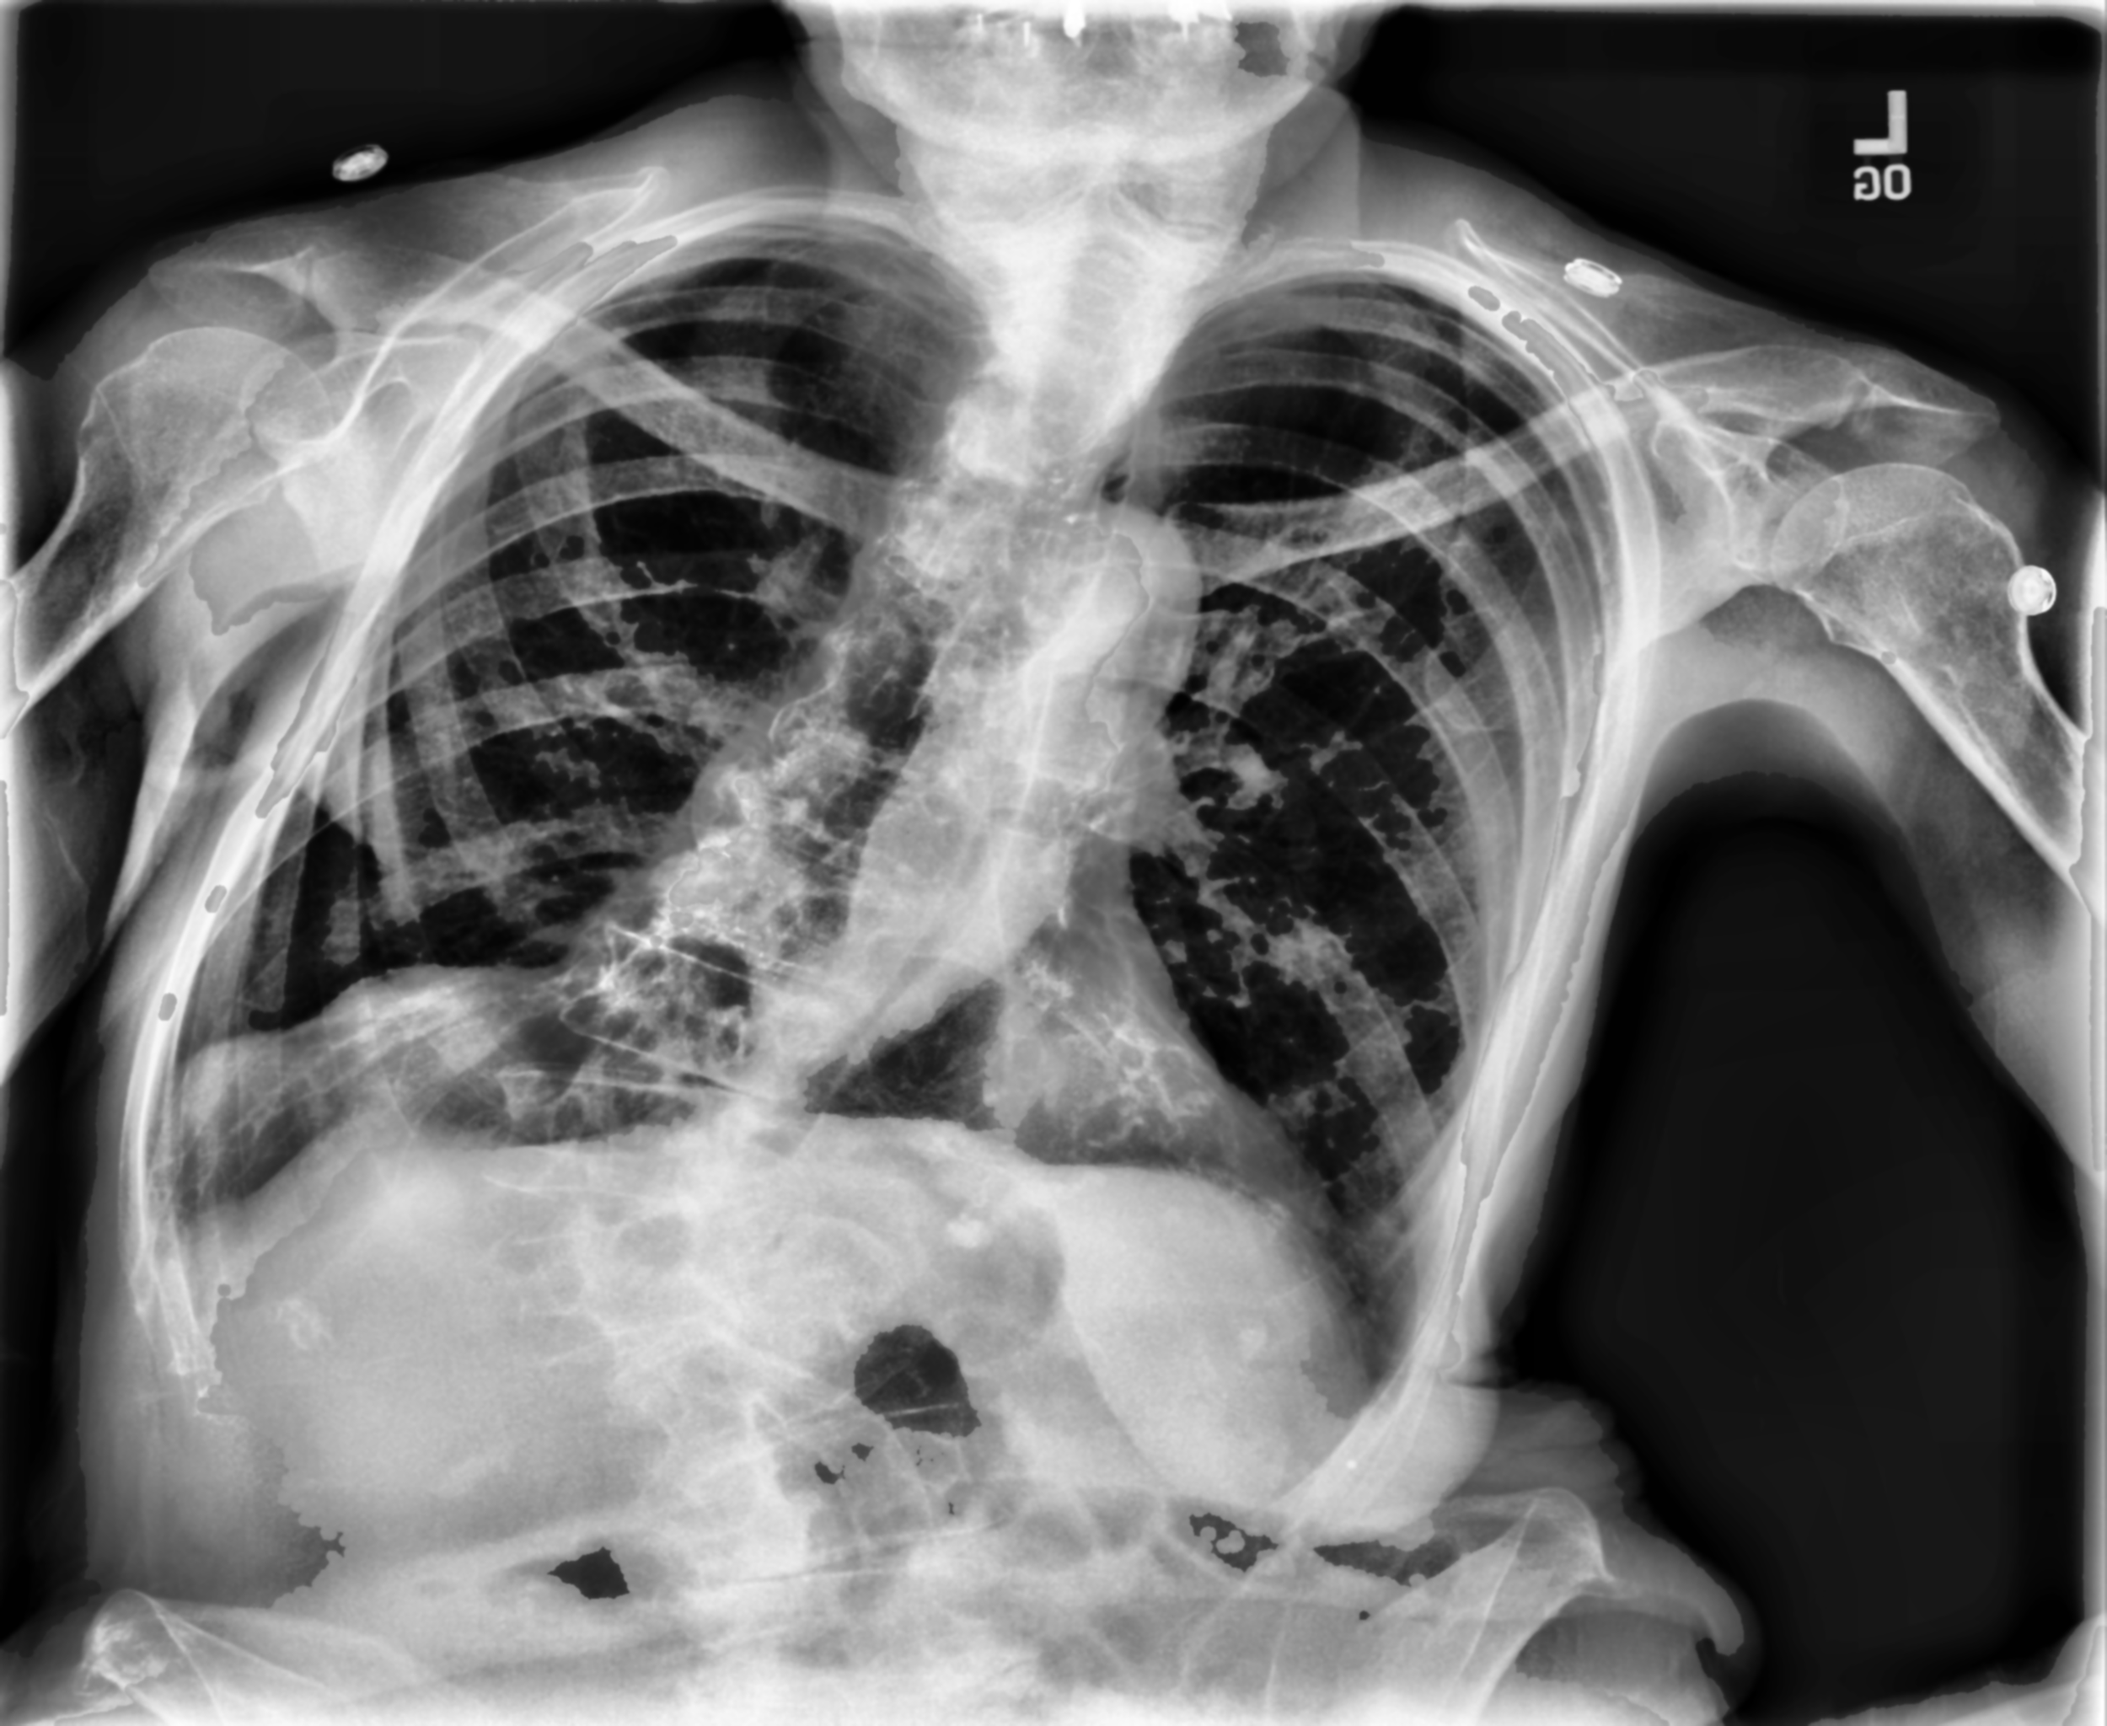
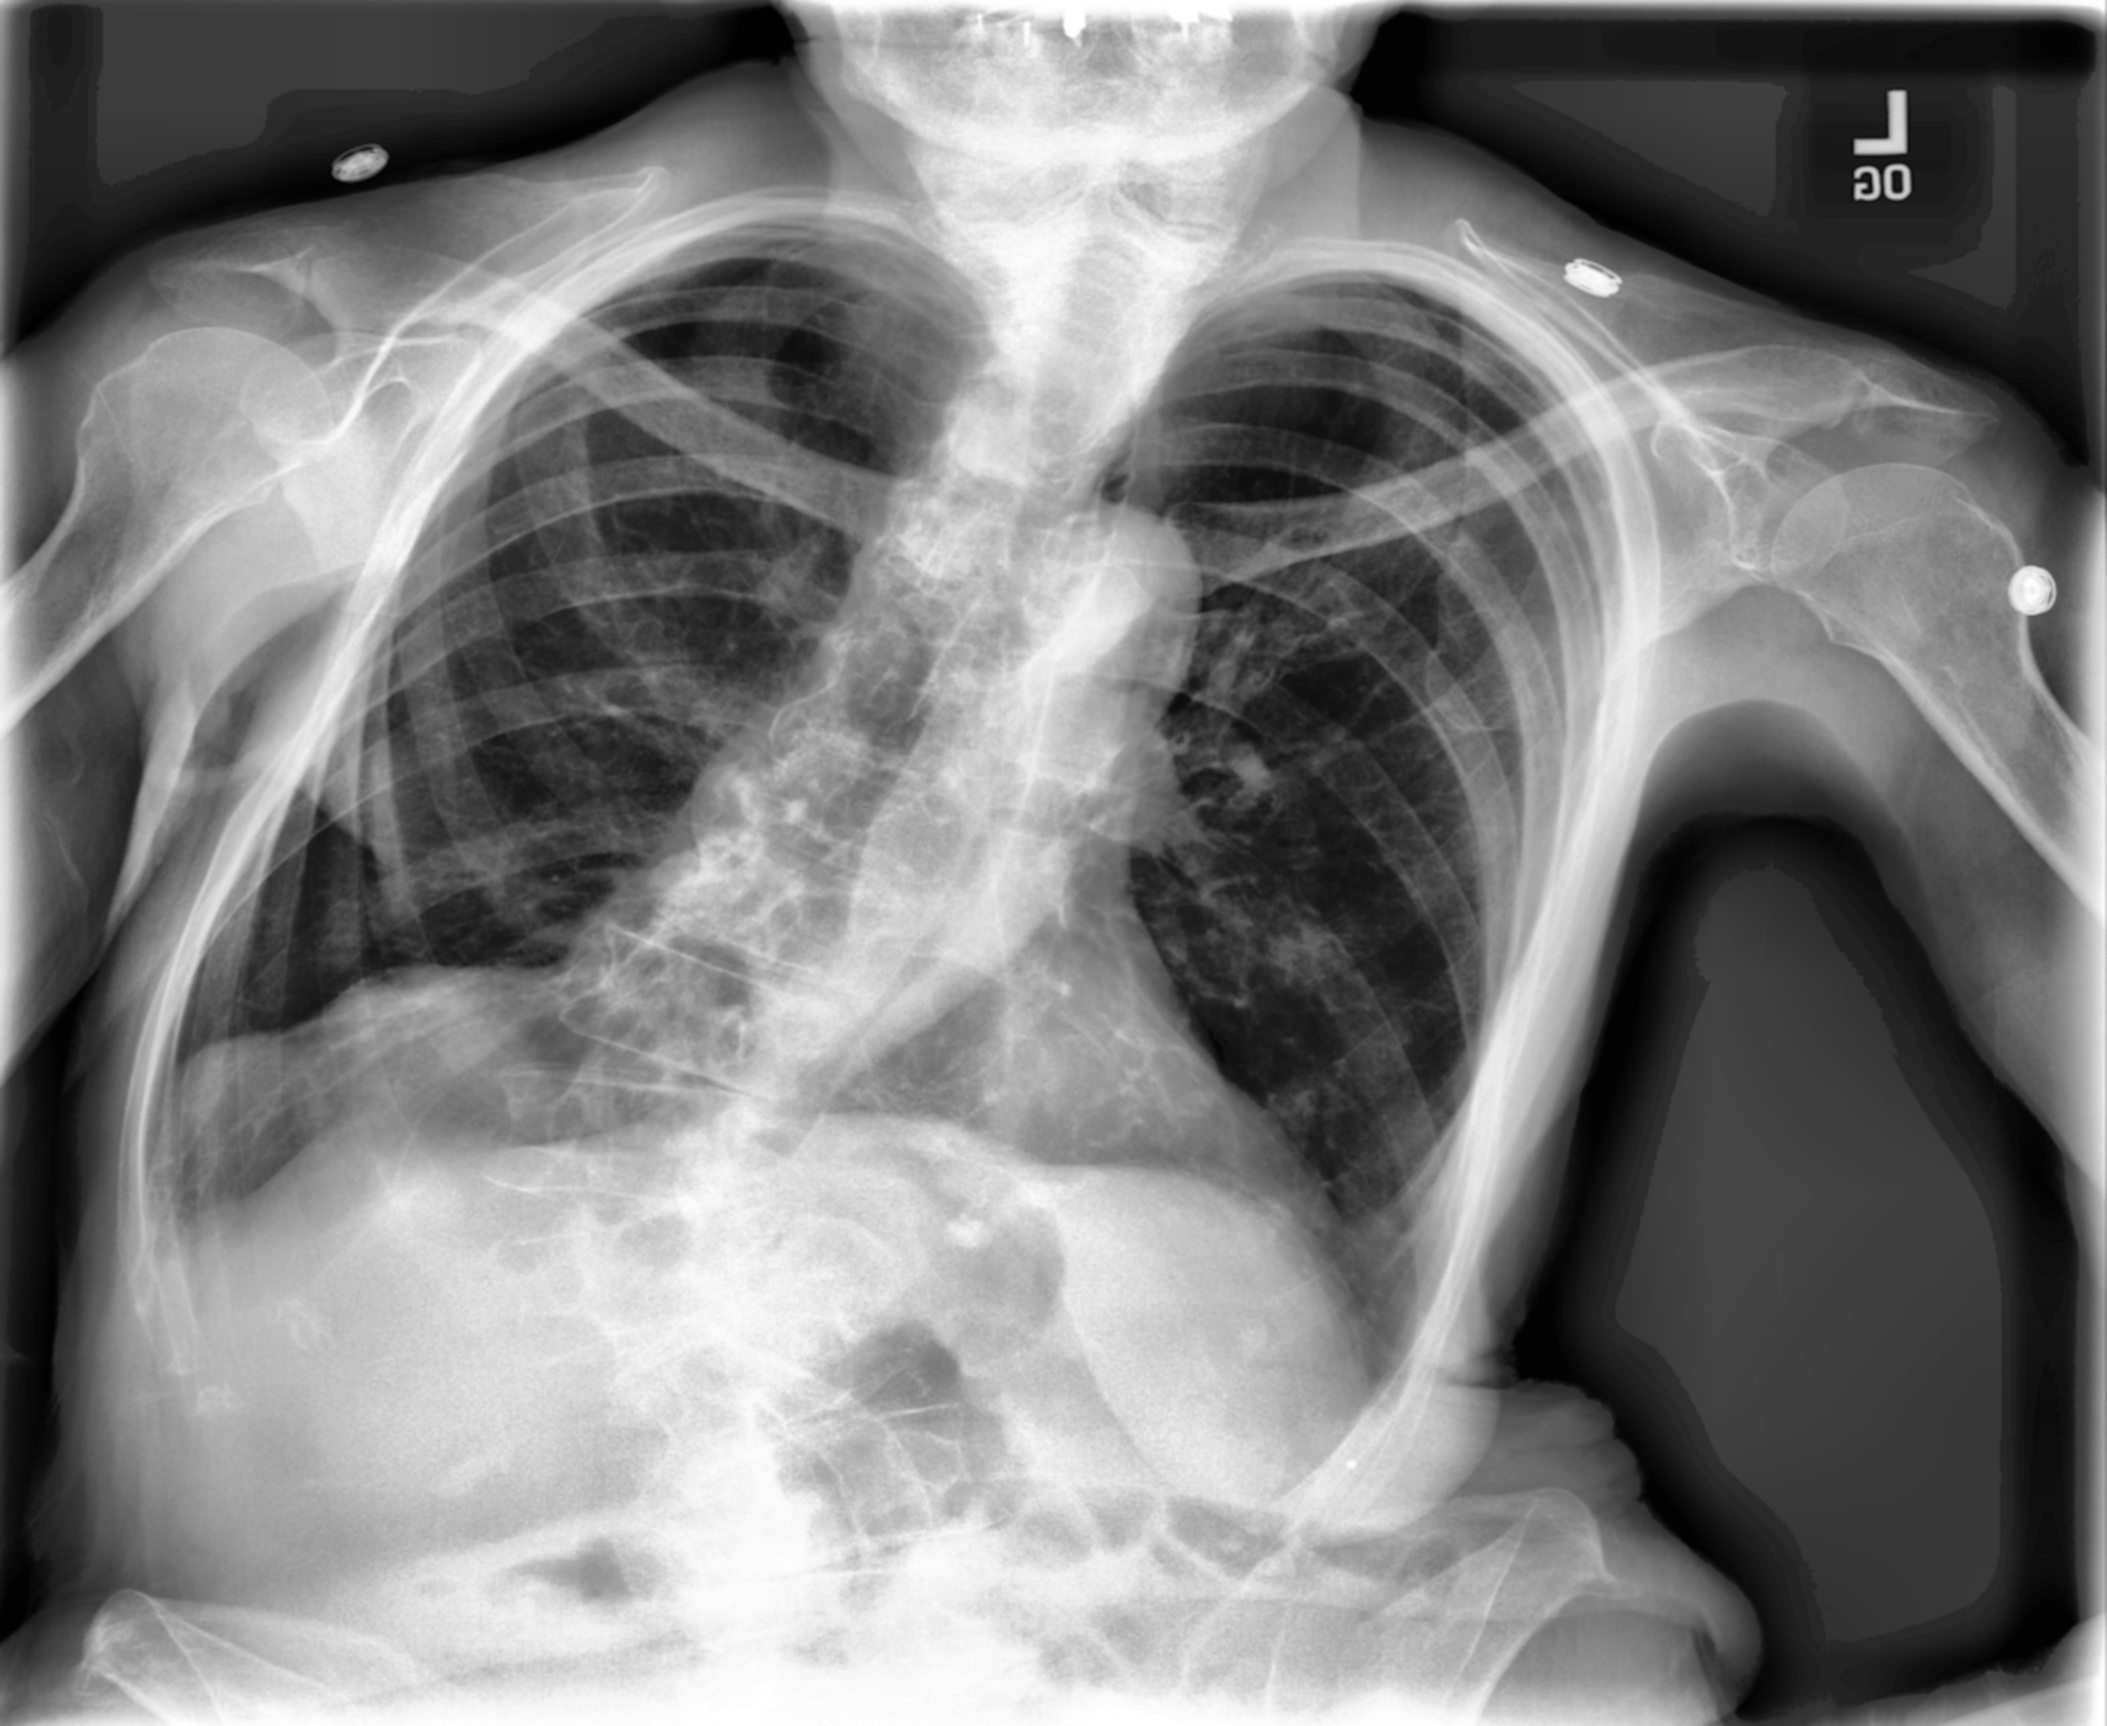
new simpler pipline for preprocessing using only hsv and clahe

diff --git a/Preprocessing/preprocessing.py b/Preprocessing/preprocessing.py
@@ -251,6 +251,65 @@ def preprocess_xray_soft_tissue(image_path, output_size=(2500, 2048), show_proce
     return workbench[-1]
 
 
+def preprocess_xray(image_path, output_size=(2500, 2048), show_process=False):
+    """
+    Apply standard preprocessing pipeline to an X-ray image.
+    
+    Args:
+        image_path (str): Path to the input X-ray image
+        output_size (tuple): Target size for the output image (width, height)
+        show_process (bool): Whether to save intermediate processing steps
+    
+    Returns:
+        numpy.ndarray: Preprocessed image array
+    """
+    # Image processing log
+    workbench = []
+    # Load the image
+    image = cv2.imread(image_path, cv2.IMREAD_GRAYSCALE)
+    workbench.append(image)
+    
+    if image is None:
+        raise ValueError(f"Could not load image from {image_path}")
+    
+    # Resize image to target size
+    resized = cv2.resize(workbench[-1], output_size)
+    workbench.append(resized)
+
+    # apply hsv adjustment
+    hsv_adjusted = cv2.equalizeHist(workbench[-1])
+    workbench.append(hsv_adjusted)
+
+    # Apply CLAHE for contrast enhancement
+    clahe = cv2.createCLAHE(clipLimit=2.0, tileGridSize=(8, 8))
+    enhanced = clahe.apply(workbench[-1])
+    workbench.append(enhanced)
+
+    # Apply Gaussian blur to reduce noise
+    blurred = cv2.GaussianBlur(workbench[-1], (5, 5), 0)
+    workbench.append(blurred)
+    
+    # find feature with sift and draw keypoints
+    #sift = cv2.SIFT_create()
+    #keypoints, descriptors = sift.detectAndCompute(workbench[-1], None)
+    #keypoint_image = cv2.drawKeypoints(workbench[-1], keypoints, None, flags=cv2.DRAW_MATCHES_FLAGS_DRAW_RICH_KEYPOINTS)
+    #workbench.append(keypoint_image)
+
+    if show_process:
+        # Clear and create pipeline directory
+        pipeline_dir = 'standard_pipeline'
+        if os.path.exists(pipeline_dir):
+            shutil.rmtree(pipeline_dir)
+        os.makedirs(pipeline_dir)
+        
+        for i, img in enumerate(workbench):
+            output_path = os.path.join(pipeline_dir, f'{i:02d}.png')
+            cv2.imwrite(output_path, img)
+            print(f"Saved standard pipeline stage: {output_path}")
+
+    return workbench[-1]
+
+
 def preprocess_batch_soft_tissue(input_dir, output_dir, output_size=(2500, 2048), num_threads=NUM_THREADS):
     """
     Preprocess all X-ray images in a directory with soft tissue optimization and save them to an output directory.
@@ -294,7 +353,7 @@ def preprocess_filepaths_threaded(filepaths, output_dir, num_threads=NUM_THREADS
         try:
             filename = os.path.basename(filepath)
             output_path = os.path.join(output_dir, f"soft_tissue_{filename}")
-            processed_image = preprocess_xray_soft_tissue(filepath, output_size)
+            processed_image = preprocess_xray(filepath, output_size)
             cv2.imwrite(output_path, processed_image)
             return True, filepath
         except Exception as e:
@@ -314,19 +373,20 @@ def preprocess_filepaths_threaded(filepaths, output_dir, num_threads=NUM_THREADS
     return successful, errors
 
 
-# Example usage:
+if __name__ == "__main__":
+    # Example usage:
 
-#uncomment to test threaded batch processing
-#images = [
-#    'images/00000372_008.png',
-#    'images/00000001_000.png',
-#    'images/00000032_005.png'
-#]
-#output_directory = 'preprocessed_threaded'
-#preprocess_filepaths_threaded(images, output_directory,3,(2500, 2048))
+    #uncomment to test threaded batch processing
+    #images = [
+    #    'images/00000372_008.png',
+    #    'images/00000001_000.png',
+    #    'images/00000032_005.png'
+    #]
+    #output_directory = 'preprocessed_threaded'
+    #preprocess_filepaths_threaded(images, output_directory,3,(2500, 2048))
 
-#uncomment to test batch processing
-#preprocess_batch_soft_tissue(input_directory, output_directory)
+    #uncomment to test batch processing
+    preprocess_batch_soft_tissue(input_directory, output_directory)
 
-#uncommment to test single image processing with process visualization
-#preprocess_xray_soft_tissue('images/00000001_000.png', show_process=True)
+    #uncommment to test single image processing with process visualization
+    preprocess_xray('images/00000001_000.png', show_process=True)
